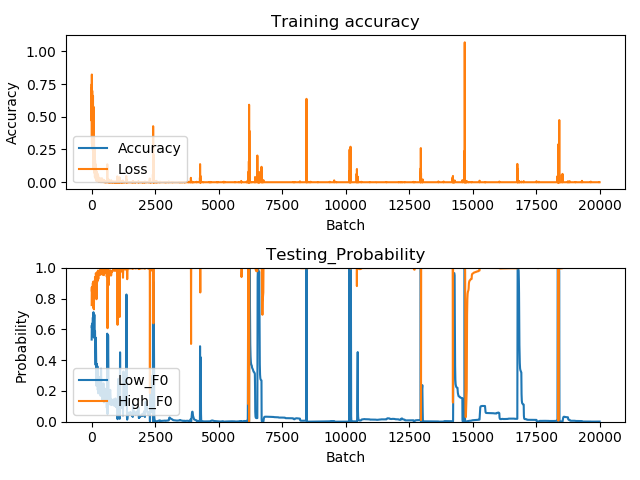
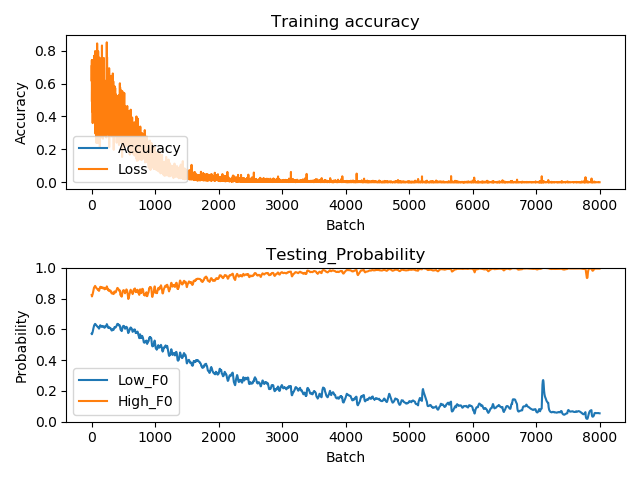
this is a good intermediate version that works almost as expected so save it here

diff --git a/train_2_half_rcr.py b/train_2_half_rcr.py
@@ -86,7 +86,7 @@ def ff_nn_one(n_slow=40, n_fast = 10, n_inp = 30, lr_s = 1, lr_f = 10, activatio
 
     ####for now we will just have one fixed learning rate for the slow-fast pretraining, which
     #### is essentially a slow-slow model 
-    model.compile(optimizer = LRMultiplier(Adam(lr=1e-3), {'slow':lr_s, 'fast':lr_f, 's2': lr_s, 'f2': lr_f}),
+    model.compile(optimizer = LRMultiplier(Adam(lr=1e-4), {'slow':lr_s, 'fast':lr_f, 's2': lr_s, 'f2': lr_f}),
                 #SGD(lr=0.05),
                 loss='binary_crossentropy',
                 metrics=['accuracy'])    
@@ -105,7 +105,7 @@ def slow_fast_nn_one(lr_s = 1, lr_f = 10, n_inp = 30, n_slow=40, n_fast=10, acti
     model = Model(inputs = inp, outputs = out)
     if(train_slow):
         ###haven't been able to use the LRMultiplier function yet
-        model.compile(optimizer = LRMultiplier(Adam(lr=1e-3), {'slow':lr_s, 'fast':lr_f, 's2': lr_s, 'f2': lr_f}),
+        model.compile(optimizer = LRMultiplier(Adam(lr=1e-4), {'slow':lr_s, 'fast':lr_f, 's2': lr_s, 'f2': lr_f}),
                     loss='binary_crossentropy',
                     metrics=['accuracy'])        
     else:

diff --git a/sf_2_layer_half_rcr.py b/sf_2_layer_half_rcr.py
@@ -43,10 +43,10 @@ rev_file = config.rev_file
 test_file = config.test_file
 
 ###Training parameters
-PRETRAIN_BATCH_SIZE = 100
+PRETRAIN_BATCH_SIZE = 10
 PRETRAIN_EPOCHs = 5
-EXPOSURE_BATCH_SIZE = 1
-EXPOSURE_EPOCHS = 1
+EXPOSURE_BATCH_SIZE = 5
+EXPOSURE_EPOCHS = 10
 
 ### Load all Data
 # Labels are 1 = "b" and 0 = "p"
@@ -65,7 +65,7 @@ high_d2_test = np.array(train_one.loadOfInt('test.pkl', data_dir)[2])
 ### In this version, I changed the activation to linear units, which is set as default in my implementation
 ### I also unfreeze the slow weights so that there's weight update in the slow pathway as well during exposure
 lr_slow = 1
-lr_fast = 2
+lr_fast = 20
 
 slow_model = train_one.ff_nn_one(lr_s = 1, lr_f = 1)
 
@@ -102,7 +102,7 @@ plt.close()
 
 # fs_r2 = set_fs_weights(slow_model)
 
-n_exp = 1
+n_exp = 25
 for i in range(n_exp):
     # ### Exposure phase training with canonical and reverse data
     fs = train_one.set_fs_weights_one(slow_model, lr_s = lr_slow, lr_f = lr_fast, train_slow = True)
